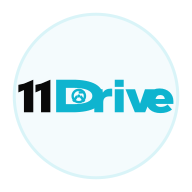
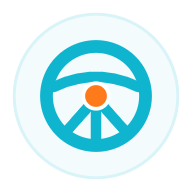
Restore animated installed app launch

Changed region(s): [[0.0938, 0.1875, 0.9062, 0.8125]]

diff --git a/tests/memberExperience.test.ts b/tests/memberExperience.test.ts
@@ -13,16 +13,16 @@ test('installable site has manifest and safe navigation fallback',()=>{
   const manifest=JSON.parse(readFileSync('public/manifest.webmanifest','utf8'));
   assert.equal(manifest.display,'standalone');assert.equal(manifest.name,'11Drive');
   assert.equal(manifest.start_url,'/?source=pwa');assert.equal(manifest.background_color,'#ffffff');
-  assert.ok(manifest.icons.some((icon:{src:string;sizes:string})=>icon.src.startsWith('/app-icon-192.png')&&icon.sizes==='192x192'));
-  assert.ok(manifest.icons.some((icon:{src:string;sizes:string;purpose:string})=>icon.src.startsWith('/app-icon-512.png')&&icon.sizes==='512x512'&&icon.purpose.includes('maskable')));
-  assert.match(readFileSync('public/app-icon.svg','utf8'),/aria-label="11Drive"/);
+  assert.ok(manifest.icons.some((icon:{src:string;sizes:string})=>icon.src==='/app-icon-192.png?v=5'&&icon.sizes==='192x192'));
+  assert.ok(manifest.icons.some((icon:{src:string;sizes:string;purpose:string})=>icon.src==='/app-icon-512.png?v=5'&&icon.sizes==='512x512'&&icon.purpose.includes('maskable')));
+  assert.match(readFileSync('public/app-icon.svg','utf8'),/aria-label="11Drive steering wheel"/);
   const worker=readFileSync('public/sw.js','utf8');assert.match(worker,/request\.mode==='navigate'/);
-  assert.match(worker,/11drive-shell-v5/);
+  assert.match(worker,/11drive-shell-v6/);
   assert.match(worker,/self\.skipWaiting\(\)/);
   assert.match(worker,/self\.clients\.claim\(\)/);
   const document=readFileSync('index.html','utf8');
   assert.match(document,/name="theme-color" content="#ffffff"/);
-  assert.match(document,/apple-touch-icon[^>]+app-icon-192\.png\?v=4/);
+  assert.match(document,/apple-touch-icon[^>]+app-icon-192\.png\?v=5/);
   assert.doesNotMatch(document,/boot-splash|data-pwa-launch/);
   const intro=readFileSync('src/components/LaunchIntro.tsx','utf8');assert.match(intro,/Opening \$\{siteName\}/);assert.doesNotMatch(intro,/launch-caret/);
   assert.match(intro,/ElevenDriveWordmark decorative/);
@@ -41,7 +41,8 @@ test('installable site has manifest and safe navigation fallback',()=>{
   assert.match(app,/display-mode: standalone/);
   assert.match(app,/get\('source'\) === 'pwa'/);
   assert.match(app,/const installedAppLaunch =/);
-  assert.match(app,/if \(installedAppLaunch \|\|/);
+  assert.match(app,/if \(installedAppLaunch\) return true/);
+  assert.match(app,/installedAppLaunch \|\| settings\.launch_intro_enabled === 'true'/);
   assert.match(app,/const launchOverlay =/);
   assert.match(app,/const completeLaunchIntro = useCallback/);
   assert.match(app,/if \(authLoading \|\| loading\)[\s\S]*\{launchOverlay\}/);

diff --git a/src/App.tsx b/src/App.tsx
@@ -52,7 +52,8 @@ export default function App() {
   );
   const [allowBackgroundVideo, setAllowBackgroundVideo] = useState(false);
   const [showLaunchIntro, setShowLaunchIntro] = useState(() => {
-    if (installedAppLaunch || window.location.pathname !== '/' || window.matchMedia('(prefers-reduced-motion: reduce)').matches) return false;
+    if (window.location.pathname !== '/' || window.matchMedia('(prefers-reduced-motion: reduce)').matches) return false;
+    if (installedAppLaunch) return true;
     try {
       if (sessionStorage.getItem('11drive-launch-intro-seen')) return false;
       sessionStorage.setItem('11drive-launch-intro-seen', 'true');
@@ -60,7 +61,7 @@ export default function App() {
     } catch { return true; }
   });
   const completeLaunchIntro = useCallback(() => setShowLaunchIntro(false), []);
-  const launchOverlay = showLaunchIntro && settings.launch_intro_enabled === 'true' ? <LaunchIntro
+  const launchOverlay = showLaunchIntro && (installedAppLaunch || settings.launch_intro_enabled === 'true') ? <LaunchIntro
     siteName={settings.site_name}
     backgroundEnabled={settings.launch_intro_background_enabled === 'true'}
     backgroundType={settings.homepage_background_type}

diff --git a/public/sw.js b/public/sw.js
@@ -1,4 +1,4 @@
-const CACHE='11drive-shell-v5';
+const CACHE='11drive-shell-v6';
 self.addEventListener('install',event=>event.waitUntil(Promise.all([caches.open(CACHE).then(cache=>cache.addAll(['/','/manifest.webmanifest','/favicon.svg','/app-icon-192.png','/app-icon-512.png'])),self.skipWaiting()])));
 self.addEventListener('activate',event=>event.waitUntil(Promise.all([caches.keys().then(keys=>Promise.all(keys.filter(key=>key!==CACHE).map(key=>caches.delete(key)))),self.clients.claim()])));
 self.addEventListener('fetch',event=>{if(event.request.method!=='GET'||new URL(event.request.url).origin!==location.origin)return;event.respondWith(fetch(event.request).then(response=>{if(response.ok&&event.request.destination!=='document'){const copy=response.clone();caches.open(CACHE).then(cache=>cache.put(event.request,copy))}return response}).catch(()=>caches.match(event.request).then(hit=>hit||(event.request.mode==='navigate'?caches.match('/'):Response.error()))))});

diff --git a/index.html b/index.html
@@ -7,7 +7,7 @@
     <meta name="description" content="Connect car owners with ride-hailing drivers across Kenya. Find the right driver or the right car." />
     <meta name="theme-color" content="#ffffff" />
     <link rel="manifest" href="/manifest.webmanifest" />
-    <link rel="apple-touch-icon" sizes="192x192" href="/app-icon-192.png?v=4" />
+    <link rel="apple-touch-icon" sizes="192x192" href="/app-icon-192.png?v=5" />
     <link rel="preconnect" href="https://fonts.googleapis.com" />
     <link rel="preconnect" href="https://fonts.gstatic.com" crossorigin />
     <link href="https://fonts.googleapis.com/css2?family=Plus+Jakarta+Sans:wght@400;500;600;700;800&family=Inter:wght@400;500;600;700&display=swap" rel="stylesheet" />
